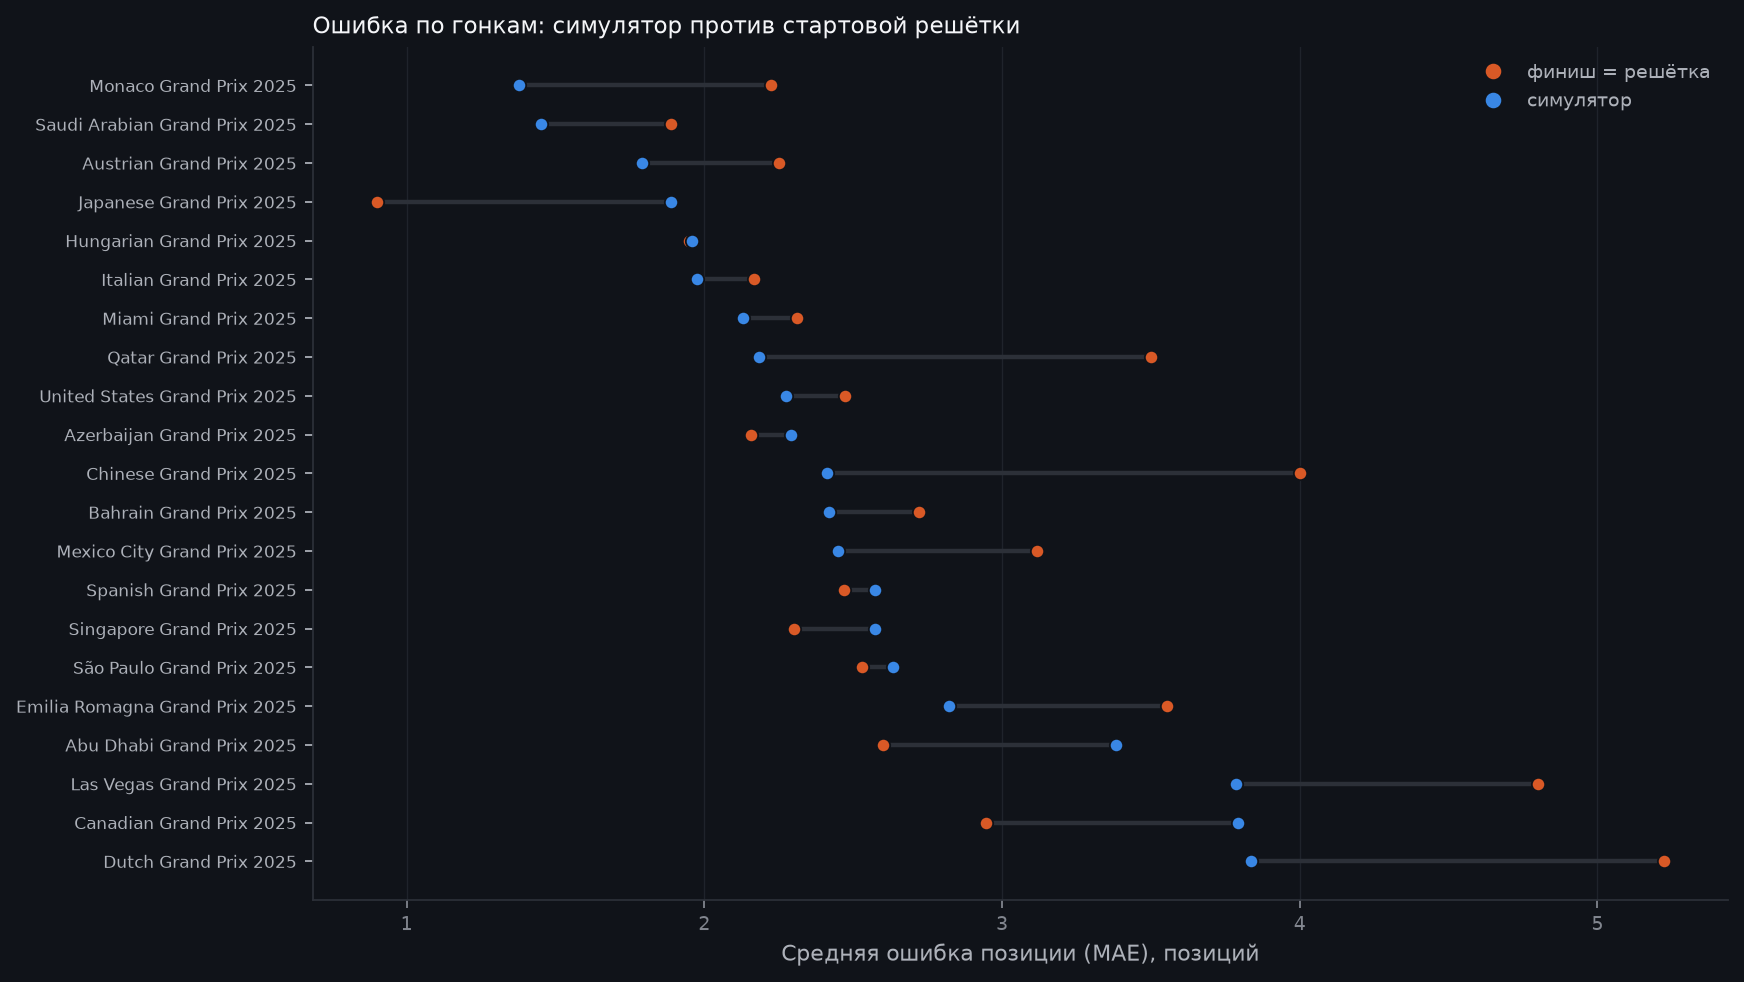
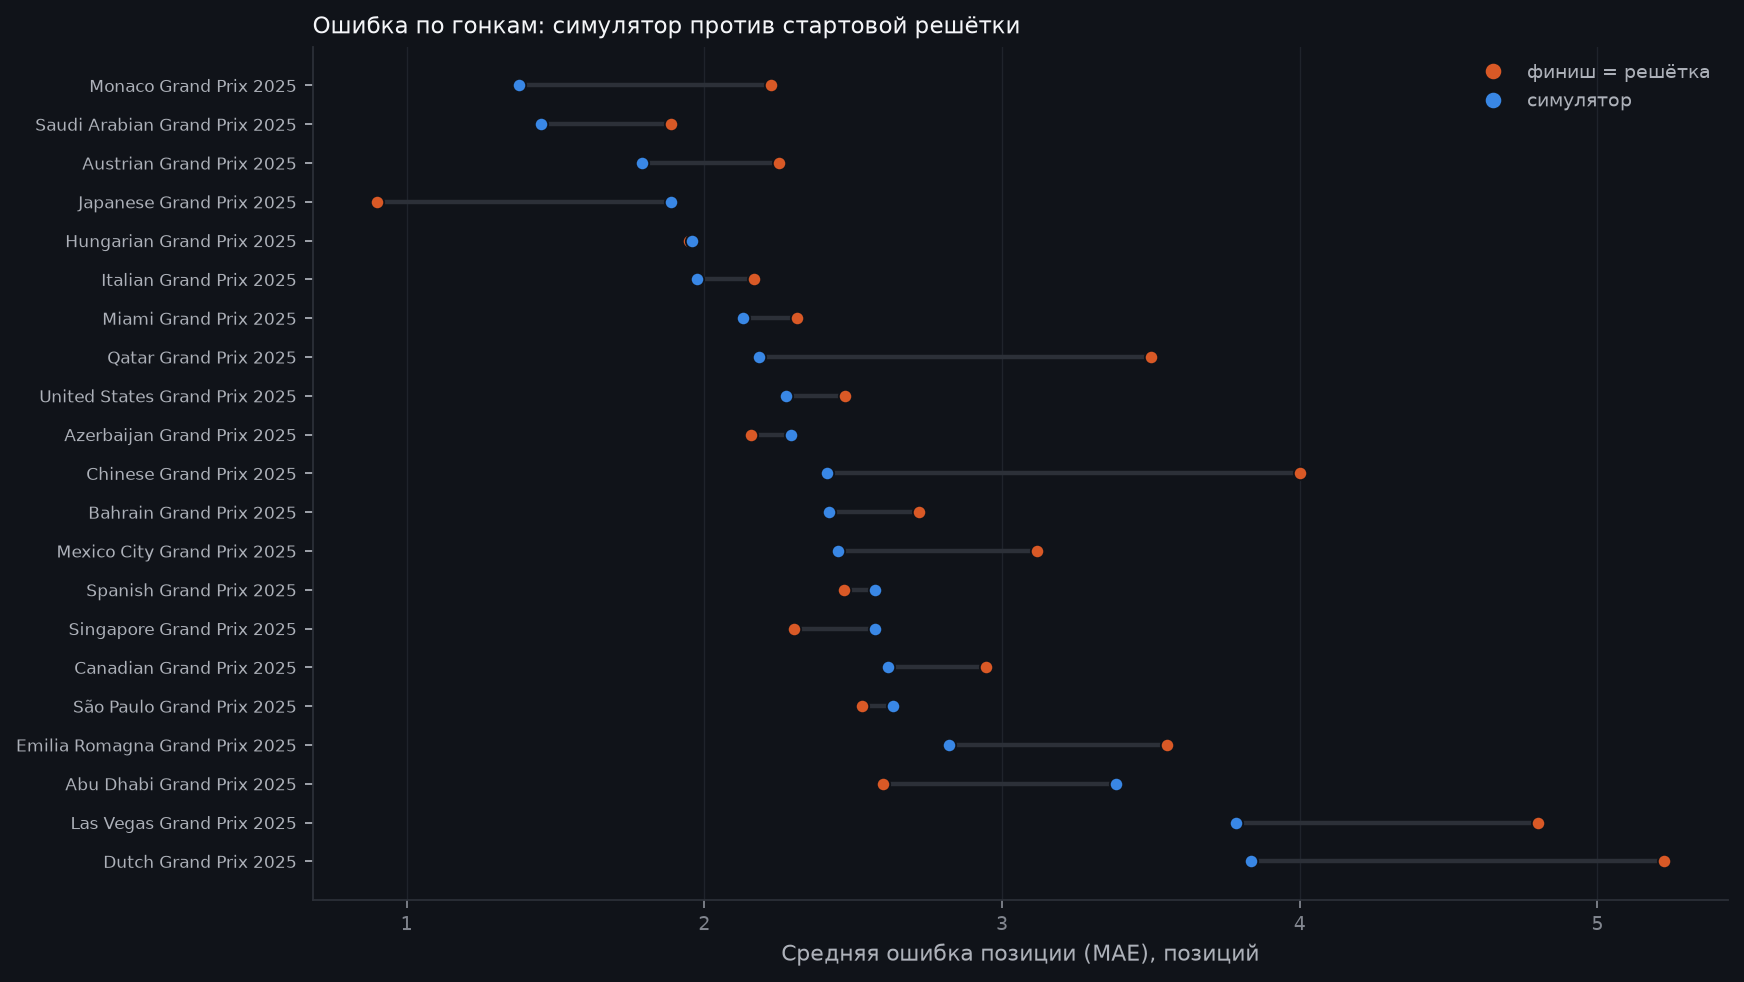
docs(sim): backtest after the pit lane pass fix
Canada 2025 lost its phantom stops on laps 66-68: Spearman 0.43 -> 0.68,
MAE 3.79 -> 2.62. Over 2025: Spearman 0.763 -> 0.775, MAE 2.48 -> 2.42,
better than the grid in 14 of 21 races. The pass rule is in assumptions.

diff --git a/docs/assumptions.md b/docs/assumptions.md
@@ -39,6 +39,13 @@
   события той гонки, это знание задним числом.
 - Пилоту, сошедшему до того, как стала видна его стратегия, даётся самая частая стратегия финишёров
   этой гонки.
+- Проезд по пит-лейну за сейфти-каром («SAFETY CAR THROUGH THE PIT LANE»: Австрия и Сан-Паулу 2023,
+  Катар 2024, Австралия и Канада 2025) — не пит-стоп, хотя Jolpica записывает его как пит-стоп, а
+  OpenF1 открывает новый стинт. Окно — от круга перед сообщением (у круговых номер круга на один
+  меньше) до конца этого SC. Визит в окне считается проездом, если состав не сменился и визит не
+  дольше медианного в окне больше чем на 3 с (`PIT_LANE_PASS_MARGIN_S`). Свежий комплект того же
+  состава, поставленный за этот проезд, правило может не заметить (вероятно, часть визитов
+  Катара-2024 на 37-м круге).
 
 **События гонки**
 - Только сухие гонки: гонки с промежуточной или дождевой резиной не симулируются.
@@ -74,8 +81,8 @@
 
 - Сравнивается средняя позиция в симуляции при условии финиша с реальным местом классифицированных
   пилотов (Spearman и MAE). Базовая модель — «финиш = позиция на решётке».
-- Вне выборки (2025) симулятор точнее решётки по MAE позиции (2,48 против 2,77), а по ранговой
-  корреляции с ней наравне (0,763). Общий порядок он предсказывает не лучше решётки; его польза в
-  распределениях, вероятностях и сравнении стратегий при одинаковых условиях.
+- Вне выборки (2025) симулятор точнее решётки по MAE позиции (2,42 против 2,77), а по ранговой
+  корреляции немного выше (0,775 против 0,763). Общий порядок он предсказывает лишь чуть лучше
+  решётки; его польза в распределениях, вероятностях и сравнении стратегий при одинаковых условиях.
 - Стратегии одного пилота сравниваются на общих случайных числах (те же SC, сходы и шум), поэтому
   интервал разницы узкий даже при большом разбросе самих исходов.

diff --git a/docs/sim/backtest.md b/docs/sim/backtest.md
@@ -11,10 +11,10 @@
 
 | модель | Spearman | MAE, позиций |
 |---|---|---|
-| симулятор | 0.763 | 2.477 |
+| симулятор | 0.775 | 2.421 |
 | финиш = решётка | 0.763 | 2.766 |
 
-Гонок: 21; симулятор точнее решётки по MAE в 13.
+Гонок: 21; симулятор точнее решётки по MAE в 14.
 
 ![Бэктест трёх гонок](backtest_races.png)
 
@@ -32,7 +32,7 @@
 | Emilia Romagna Grand Prix 2025 | 0.742 | 0.668 | 2.823 | 3.556 |
 | Monaco Grand Prix 2025 | 0.930 | 0.872 | 1.377 | 2.222 |
 | Spanish Grand Prix 2025 | 0.725 | 0.784 | 2.572 | 2.471 |
-| Canadian Grand Prix 2025 | 0.432 | 0.736 | 3.793 | 2.944 |
+| Canadian Grand Prix 2025 | 0.682 | 0.736 | 2.617 | 2.944 |
 | Austrian Grand Prix 2025 | 0.853 | 0.824 | 1.790 | 2.250 |
 | Hungarian Grand Prix 2025 | 0.874 | 0.904 | 1.960 | 1.947 |
 | Dutch Grand Prix 2025 | 0.259 | 0.199 | 3.837 | 5.222 |
